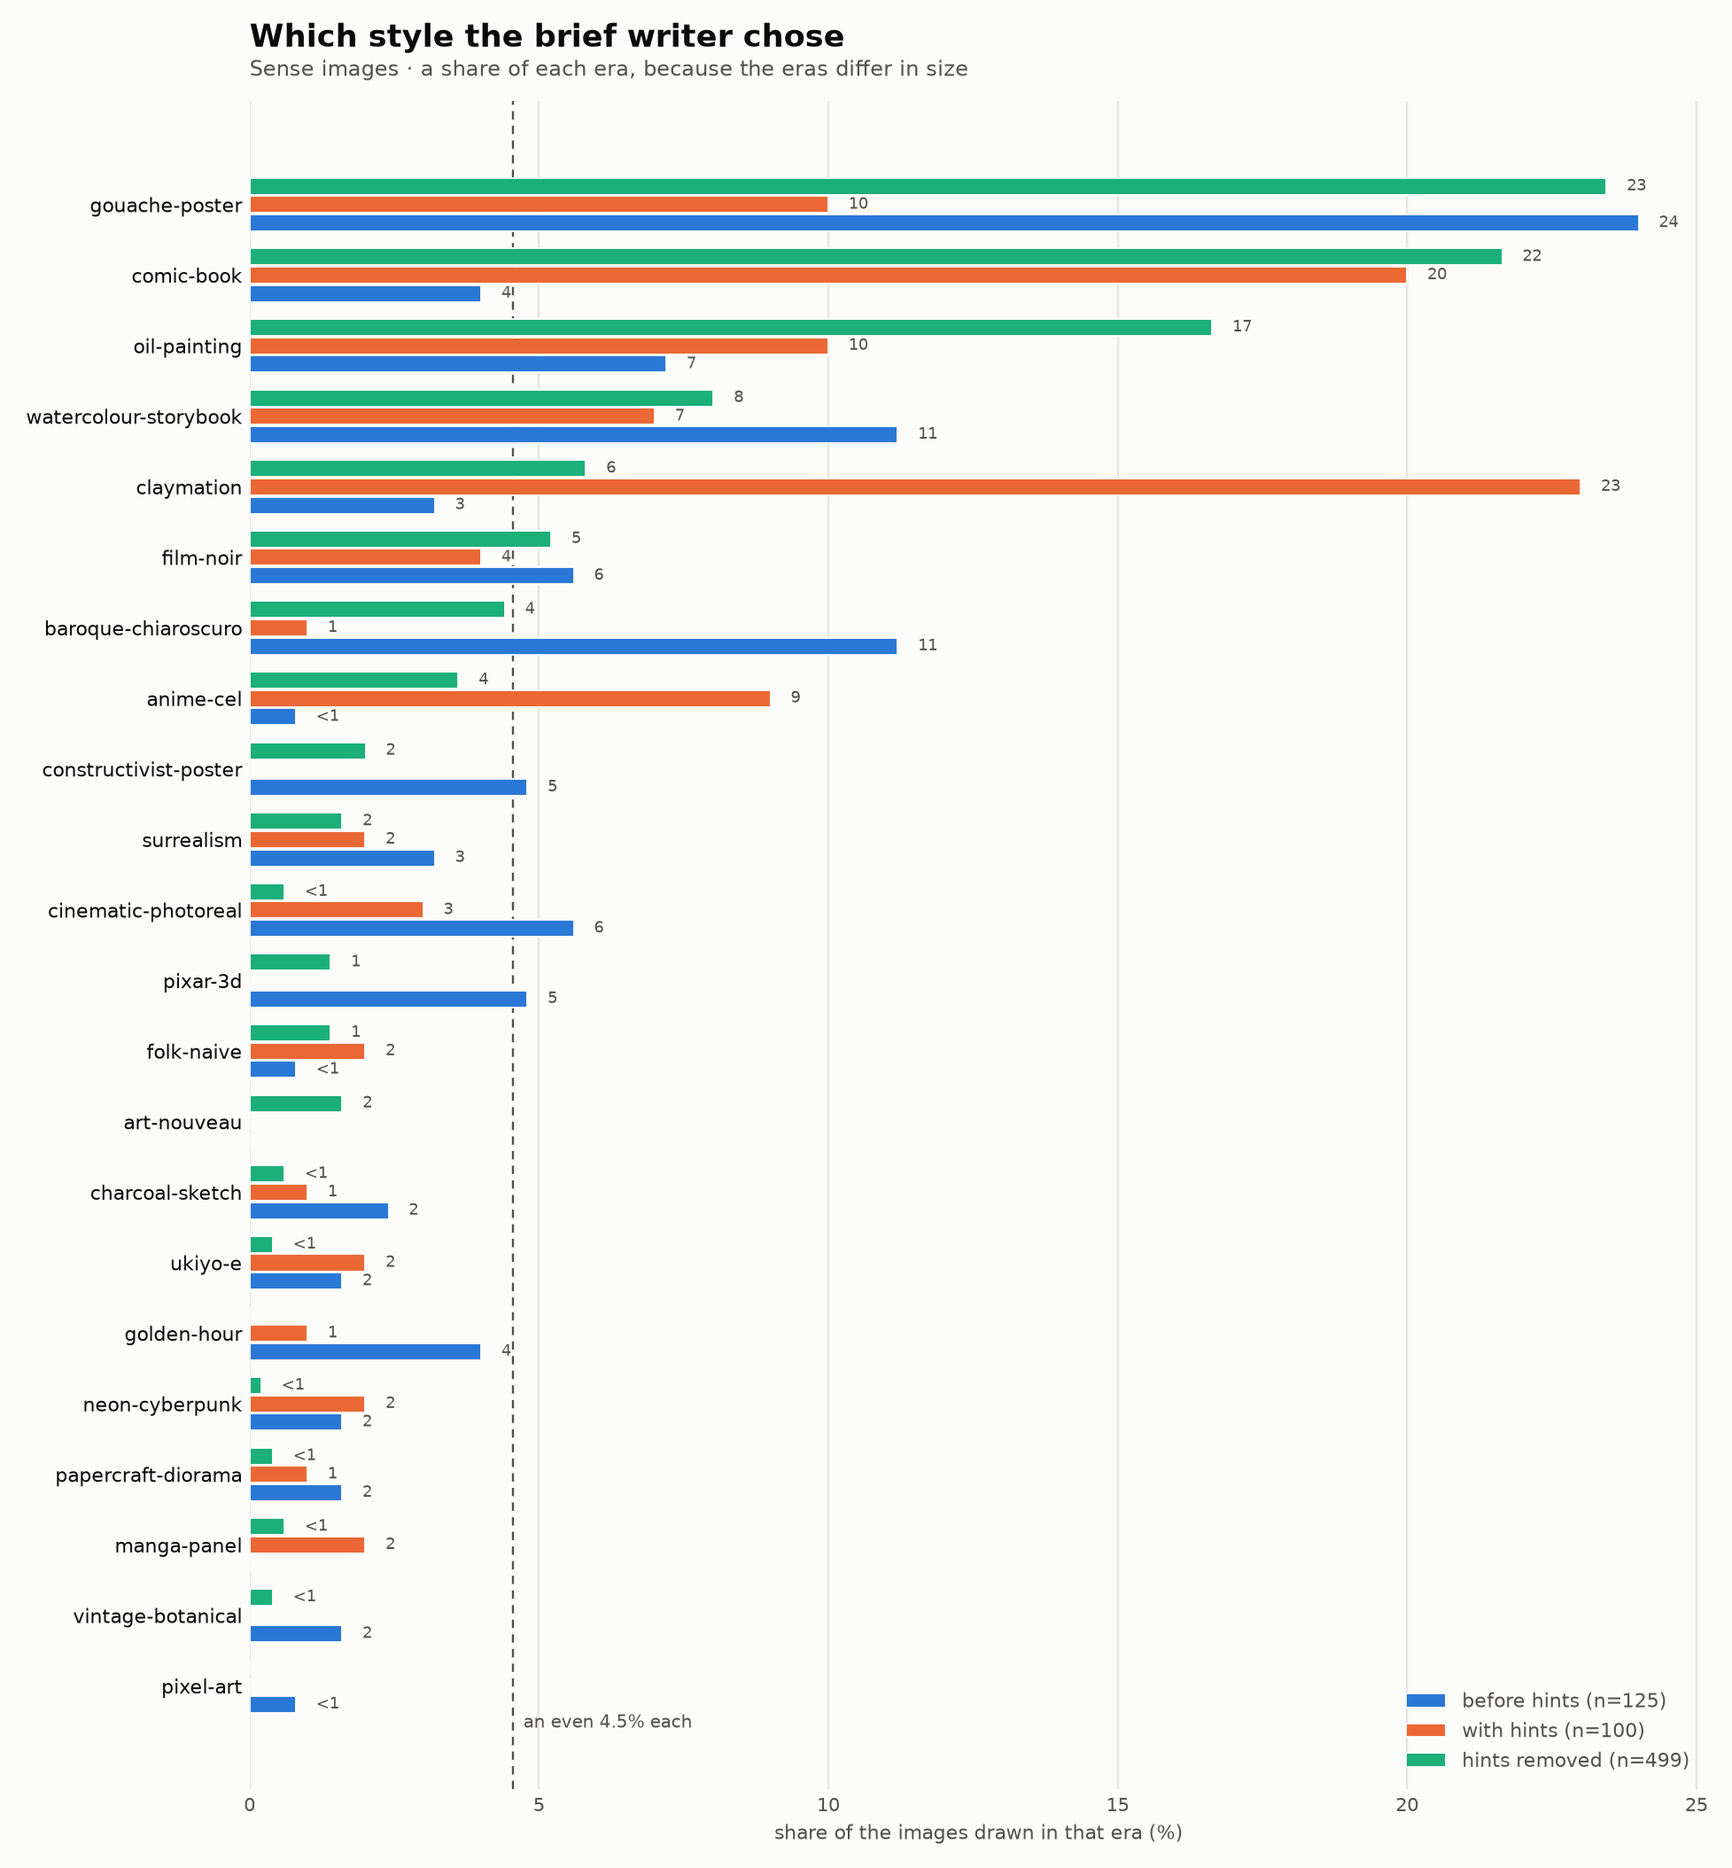
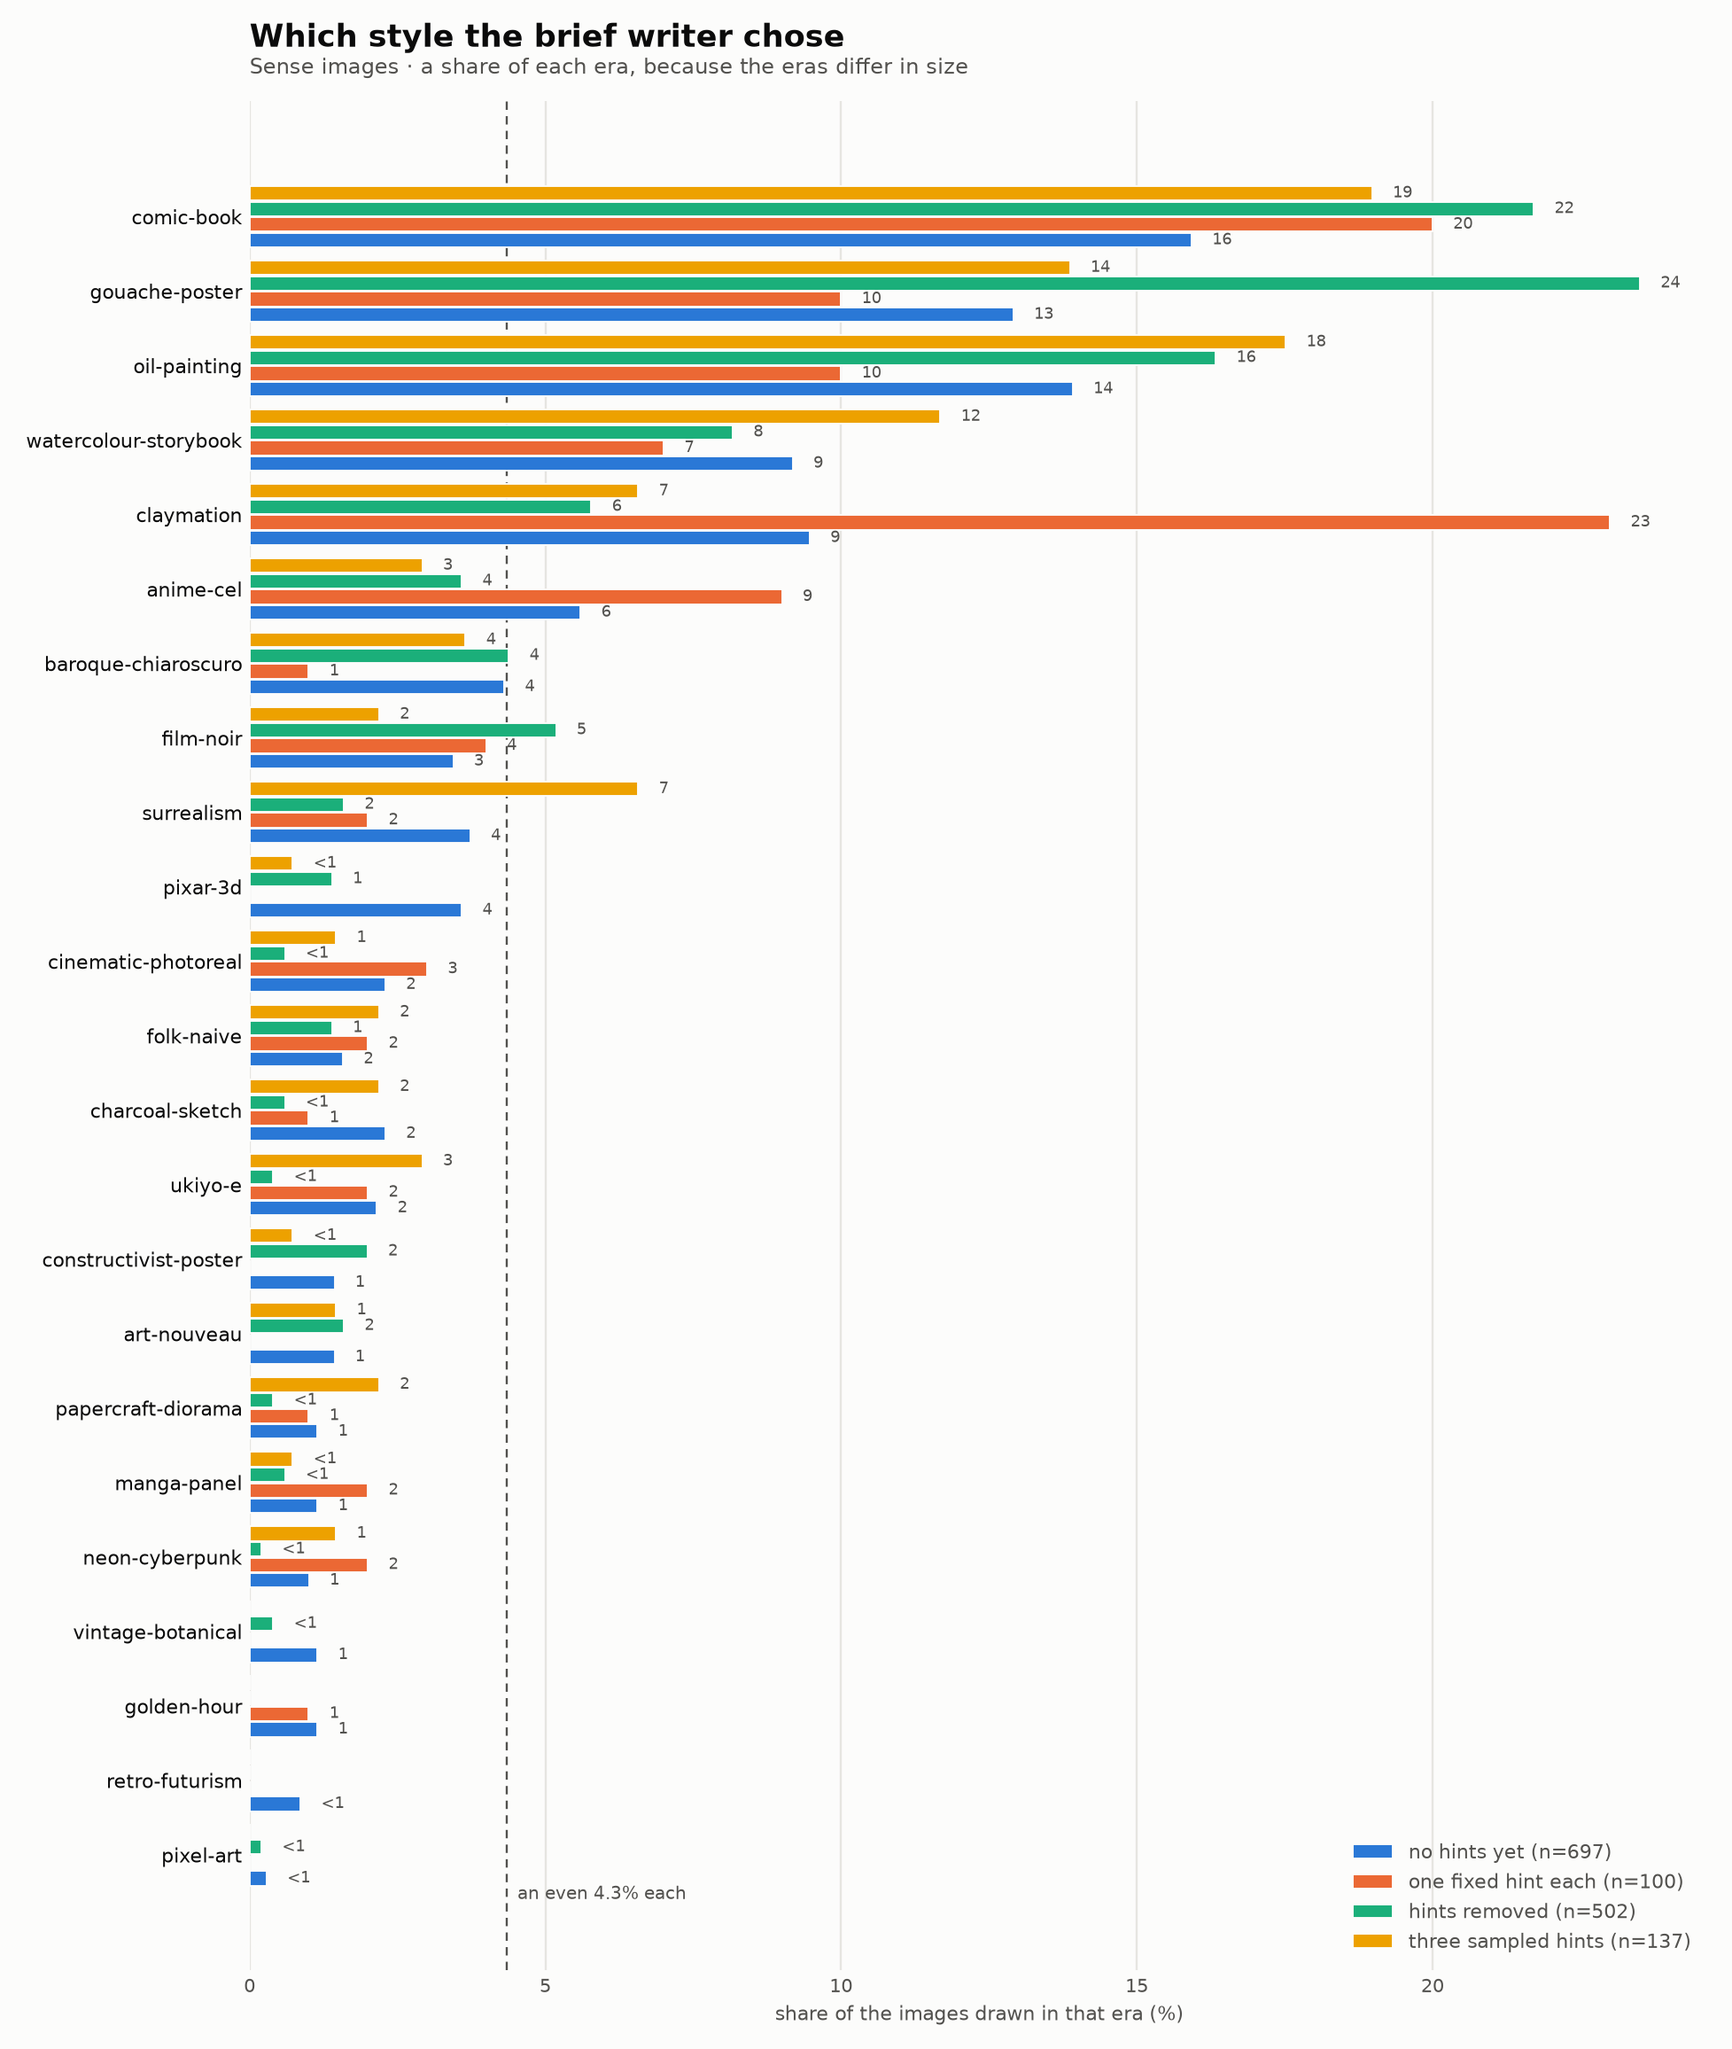
Teach the brief writer to draw the shade of meaning
- Require the words that distinguish a sense from its siblings to appear in
  the frame: an "economic abyss" drawn as a bare void is the same picture as
  the literal one.
- Stop rendering a quality of speech as something leaving the mouth. Vapour
  from lips reads as bad breath whatever it is meant to be, so a cutting
  remark is drawn through its effect on the listener instead.
- Distinguish concrete-but-hard-to-draw from abstract, and draw a relation
  such as similarity directly rather than a scene around it.
- Narrow the refusal rule: a word whose subject is on the forbidden list is
  not itself a refusal when the meaning can be implied, as `acostarse`
  already showed and `joder` was wrongly denied.
- Stop re-planning refused senses on every run.
- Split the style-distribution chart into four eras, since sampled hints were
  being counted as the era before hints existed.
- Write up round 8 and the first English batch.

Changed region(s): [[0.0312, 0.0, 0.9673, 0.9559], [0.7801, 0.8942, 0.9673, 0.9559], [0.468, 0.9559, 0.6864, 0.9867]]

diff --git a/experiments/sense-images/style_distribution.py b/experiments/sense-images/style_distribution.py
@@ -26,25 +26,35 @@ import matplotlib.pyplot as plt
 
 REPO_ROOT = Path(__file__).resolve().parents[2]
 
-# The style-table digest is the second field of a prompt version, and it changed exactly when the
-# hints were added and again when they were removed, so it identifies the eras.
-HINTS_ADDED = "3f5c6ec25"
-HINTS_REMOVED = "ab741596e"
+# The style-table digest is the second field of a prompt version, and it changed at each of these
+# points, so it identifies the eras.
+FIXED_HINTS = "3f5c6ec25"      # round 5: one `when` sentence per style, sent every time
+NO_HINTS = "ab741596e"         # round 6: nothing but each style's own description
+SAMPLED_HINTS = "729604463a61" # round 7: three of a style's example subjects, drawn per lexeme
 
 SURFACE, INK, INK_2, GRID = "#fcfcfb", "#0b0b0b", "#52514e", "#e6e5e1"
-SERIES = ("#2a78d6", "#eb6834", "#1baf7a")     # validated slots 1-3, light mode
+SERIES = ("#2a78d6", "#eb6834", "#1baf7a", "#eda100")   # validated slots 1-4, light mode
+
+ERAS = (
+    ("before", "no hints yet"),
+    ("fixed", "one fixed hint each"),
+    ("none", "hints removed"),
+    ("sampled", "three sampled hints"),
+)
 
 
 def era_of(prompt_version: str) -> str:
-    if HINTS_REMOVED in prompt_version:
-        return "after"
-    if HINTS_ADDED in prompt_version:
-        return "hints"
+    if SAMPLED_HINTS in prompt_version:
+        return "sampled"
+    if NO_HINTS in prompt_version:
+        return "none"
+    if FIXED_HINTS in prompt_version:
+        return "fixed"
     return "before"
 
 
 def collect(run_dir: Path) -> dict[str, Counter]:
-    counts = {"before": Counter(), "hints": Counter(), "after": Counter()}
+    counts = {era: Counter() for era, _ in ERAS}
     for path in (run_dir / "records").glob("*.json"):
         record = json.loads(path.read_text(encoding="utf-8"))
         if not (run_dir / "images" / f"{record['id']}.webp").exists():
@@ -55,19 +65,18 @@ def collect(run_dir: Path) -> dict[str, Counter]:
 
 def chart(counts: dict[str, Counter], styles: list[str], output: Path) -> None:
     labels = [
-        ("before", f"before hints (n={sum(counts['before'].values())})", SERIES[0]),
-        ("hints", f"with hints (n={sum(counts['hints'].values())})", SERIES[1]),
-        ("after", f"hints removed (n={sum(counts['after'].values())})", SERIES[2]),
+        (era, f"{name} (n={sum(counts[era].values())})", SERIES[index])
+        for index, (era, name) in enumerate(ERAS)
     ]
     totals = {era: sum(counts[era].values()) or 1 for era, _, _ in labels}
     even = 100 / len(styles)
 
-    height = 0.26
-    fig, axes = plt.subplots(figsize=(11.5, 12.4), facecolor=SURFACE)
+    height = 0.21
+    fig, axes = plt.subplots(figsize=(11.5, 13.6), facecolor=SURFACE)
     axes.set_facecolor(SURFACE)
 
     for offset, (era, label, colour) in enumerate(labels):
-        centres = [index + (1 - offset) * height for index in range(len(styles))]
+        centres = [index + (1.5 - offset) * height for index in range(len(styles))]
         shares = [counts[era][style] / totals[era] * 100 for style in styles]
         axes.barh(centres, shares, height=height * 0.92, color=colour, label=label,
                   linewidth=0.8, edgecolor=SURFACE, zorder=3)
@@ -122,22 +131,21 @@ def main() -> int:
     chart(counts, styles, args.out)
 
     totals = {era: sum(value.values()) or 1 for era, value in counts.items()}
-    print(f"\n{'style':<24}{'before':>16}{'hints':>16}{'after':>16}")
+    print("\n" + f"{'style':<24}" + "".join(f"{era:>16}" for era, _ in ERAS))
     for style in styles:
         cells = "".join(
             f"{counts[era][style]:>9} {counts[era][style] / totals[era] * 100:>5.1f}%"
-            for era in ("before", "hints", "after")
+            for era, _ in ERAS
         )
         print(f"{style:<24}{cells}")
-    print(f"{'TOTAL':<24}" + "".join(f"{totals[era]:>9} {'100.0':>5}%"
-                                     for era in ("before", "hints", "after")))
+    print(f"{'TOTAL':<24}" + "".join(f"{totals[era]:>9} {'100.0':>5}%" for era, _ in ERAS))
     print()
-    for era in ("before", "hints", "after"):
+    for era, name in ERAS:
         used = len(counts[era])
         top = counts[era].most_common(2)
         share = sum(count for _, count in top) / totals[era] * 100
-        print(f"{era:>7}: {used}/{len(styles)} styles used, top two = {share:.0f}%  "
-              f"({', '.join(name for name, _ in top)})")
+        print(f"{name:>22}: {used}/{len(styles)} styles used, top two = {share:.0f}%  "
+              f"({', '.join(style for style, _ in top)})")
     return 0
 
 

diff --git a/src/vocabgen/images/run.py b/src/vocabgen/images/run.py
@@ -66,6 +66,15 @@ class Store:
         path = self.image_path(prompt_id)
         return path.exists() and path.stat().st_size > 0
 
+    def is_refused(self, prompt_id: str) -> bool:
+        """A refusal is a finished outcome, not a gap.
+
+        Design §06: a sense the writer declines gets no picture and is not retried. Without this
+        every later run spends a text call rediscovering the same refusal — `joder` was re-planned
+        on every Spanish pass. Delete the file under `refusals/` to ask again.
+        """
+        return self.refusal_path(prompt_id).exists()
+
     def read(self, path: Path) -> dict[str, Any] | None:
         try:
             return json.loads(path.read_text(encoding="utf-8"))
@@ -105,6 +114,8 @@ def plan(articles: Iterable[ArticleView], store: Store, *, redo: bool = False,
                 continue          # the graph already holds a drawn image for this sense
             if store.is_drawn(prompt_id) and not redo:
                 continue          # this run directory already holds one
+            if store.is_refused(prompt_id) and not redo:
+                continue          # declined, which is a successful outcome
             jobs.append(Job(article=article, sense=sense, prompt_id=prompt_id))
     return jobs
 

diff --git a/tests/unit/images/test_sense_images.py b/tests/unit/images/test_sense_images.py
@@ -278,3 +278,15 @@ def test_the_definition_is_labelled_with_its_own_language():
     assert sense["definitionLang"] == "es"
     assert sense["definition"] == "Fluido tóxico."
     assert sense["glosses"] == [{"lang": "en", "terms": ["venom"]}]
+
+
+def test_a_refusal_is_not_planned_again(tmp_path: Path):
+    """§06: declining a sense is a finished outcome. Re-planning it spends a call to rediscover it."""
+    articles = build_articles(changes(), "es")
+    store = Store(tmp_path)
+    assert len(plan(articles, store)) == 2
+
+    store.write(store.refusal_path(image_prompt_id("s00000000000001")),
+                {"refusalReason": "sexualised imagery"})
+    assert [job.sense_id for job in plan(articles, store)] == ["s00000000000002"]
+    assert len(plan(articles, store, redo=True)) == 2        # unless asked

diff --git a/experiments/sense-images/results/round-8-english.md b/experiments/sense-images/results/round-8-english.md
@@ -1,0 +1,62 @@
+# Round 8 · 2026-09-07 · English validation
+
+20 senses, the first drawn for the English vocabulary (definitions in English, glosses into Russian),
+into a separate run directory. **17 of 20 kept** — a lower rate than the last Spanish rounds, and the
+reason is instructive.
+
+## What carried over unchanged
+
+- **Per-lexeme batching earns more here than in Spanish.** English polysemy is sharper and the
+  contrast landed every time: `acrid` drew stinging smoke for the literal sense and a corrosive
+  remark for the figurative; `aggravation` split into a re-injured shoulder and boiling frustration;
+  `admonish` into a mother's earnest grip and a teacher's raised finger.
+- **The Russian glosses did not steer anything.** The worry going in was §12 in reverse — but here
+  the definition is in English, the model's strongest language, and Russian is only a hint.
+- **Style choice was judged sound**, including `oil-painting` at 6 of 20. The reviewer's reading is
+  that the *word list* differs rather than the language: an advanced English vocabulary of
+  `abysmal`, `affront`, `amiability` leans literary in a way the Spanish everyday vocabulary did not.
+
+## Why the reject rate rose: the words are harder
+
+The reviewer's diagnosis, and it reframes all three failures: this English vocabulary is **rarer and
+more precise** than the Spanish one — it is a list of words for someone who already speaks the
+language well. The whole value of such an entry is the *shade* of meaning, and a picture of the
+general area teaches nothing.
+
+### 18 · The qualifier that distinguishes the sense must be in the frame
+
+**`abyss`**, sense 2: *the country was standing on the edge of an economic abyss.* Drawn as a city
+avenue shearing into a bottomless void. A fine picture of an abyss — and nothing in it is
+**economic**, so it cannot be told apart from the literal cliff drawn for sense 1.
+
+A sense is separated from its siblings by one or two words, and those are exactly the words a picture
+drops. Added: read the definition, ask which words are doing the distinguishing, and check that each
+has something in the frame answering to it — a plunging market board, shuttered shopfronts, a bank
+queue at the lip of the drop.
+
+### 19 · A quality of speech lives in the listener, not in the air
+
+**`acrid`**, sense 2: *she made an acrid remark about his lack of effort.* Drawn as a ribbon of
+chartreuse vapour streaming from her lips, blistering the desk varnish, the young man turning away.
+
+It reads as **halitosis**, immediately and unmistakably — a person recoiling from someone's mouth has
+one overwhelmingly common cause, and it beats the intended reading outright.
+
+This narrows the template's flagship technique rather than contradicting it. Giving an abstraction a
+physical body still works — venom beading on a fang, ink soaking a floorboard. What fails is
+**anything the body emits**: vapour, breath, smoke or fluid from a mouth has a literal reading that
+wins. For a quality of speech, draw what the words *do* — the listener's face as it lands, a hand
+stopped halfway to a cup, the others looking anywhere else, the speaker perfectly composed.
+
+### 20 · Concrete but hard to draw is not the same as abstract
+
+**`affinity`**, sense 1: *there is a close affinity between Spanish and Portuguese.* The sentence names
+two real things and a real relation; it is simply hard to picture. Treated as abstract, it became a
+scene *around* the idea — a philologist, an archive table, a brass lamp, two antique volumes — which
+illustrates philology and leaves the affinity unshown. The image model then merged the two books into
+one three-sided object, a second failure on top.
+
+Added: stay literal and put the relation on the page. Similarity is **two things side by side whose
+resemblance is the subject** — two faces mid-conversation understanding each other perfectly, two
+nearly identical objects with one small difference. And give the pair real separation, because asking
+for two near-identical objects touching invites exactly the merge that happened here.

diff --git a/experiments/sense-images/README.md b/experiments/sense-images/README.md
@@ -19,11 +19,14 @@ That separation is the whole reason the pipeline has two calls.
 | [5](results/round-5.md) | 2026-09-05 | 100 | 97 of 100 kept | The style hints backfired — stop sending them; text is banned only where it gives the answer away; draw the word, not only the sentence |
 | [6](results/round-6.md) | 2026-09-06 | ~100 | 98 of 100 kept | The original-language definition outranks the English gloss; check the situation back before drawing it; a metaphor's vehicle must not read as something else |
 | [7](results/round-7.md) | 2026-09-06 | 84 | 83 of 84 kept | Sampled hints work — keep both modes as a setting; keep the cast small so a bystander cannot outrank the subject; the style must not be doing the explaining |
+| [8](results/round-8-english.md) | 2026-09-07 | 20 (English) | 17 of 20 kept | The qualifier separating a sense must be in the frame; a quality of speech lives in the listener, never as vapour from a mouth; concrete-but-hard-to-draw is not abstract |
 
 ## Method
 
 One round is a `run --limit N` against real entries in the learner's own vocabulary, reviewed on the
-contact sheet. Rejection is deleting the file; the rejects are copied to `output/images/round-N-rejected/`
+contact sheet. Spanish runs live in `output/images/`, English in `output/images-en/` — separate
+directories because they are separate review cycles, and the vocabularies differ in difficulty as
+much as in language. Rejection is deleting the file; the rejects are copied to `output/images/round-N-rejected/`
 first, so a later round can be compared against them on the same senses. Regenerating a rejected
 sense writes a fresh brief and draws with a new seed, so a round is a genuine A/B on the same word
 rather than a fresh sample of different words.
